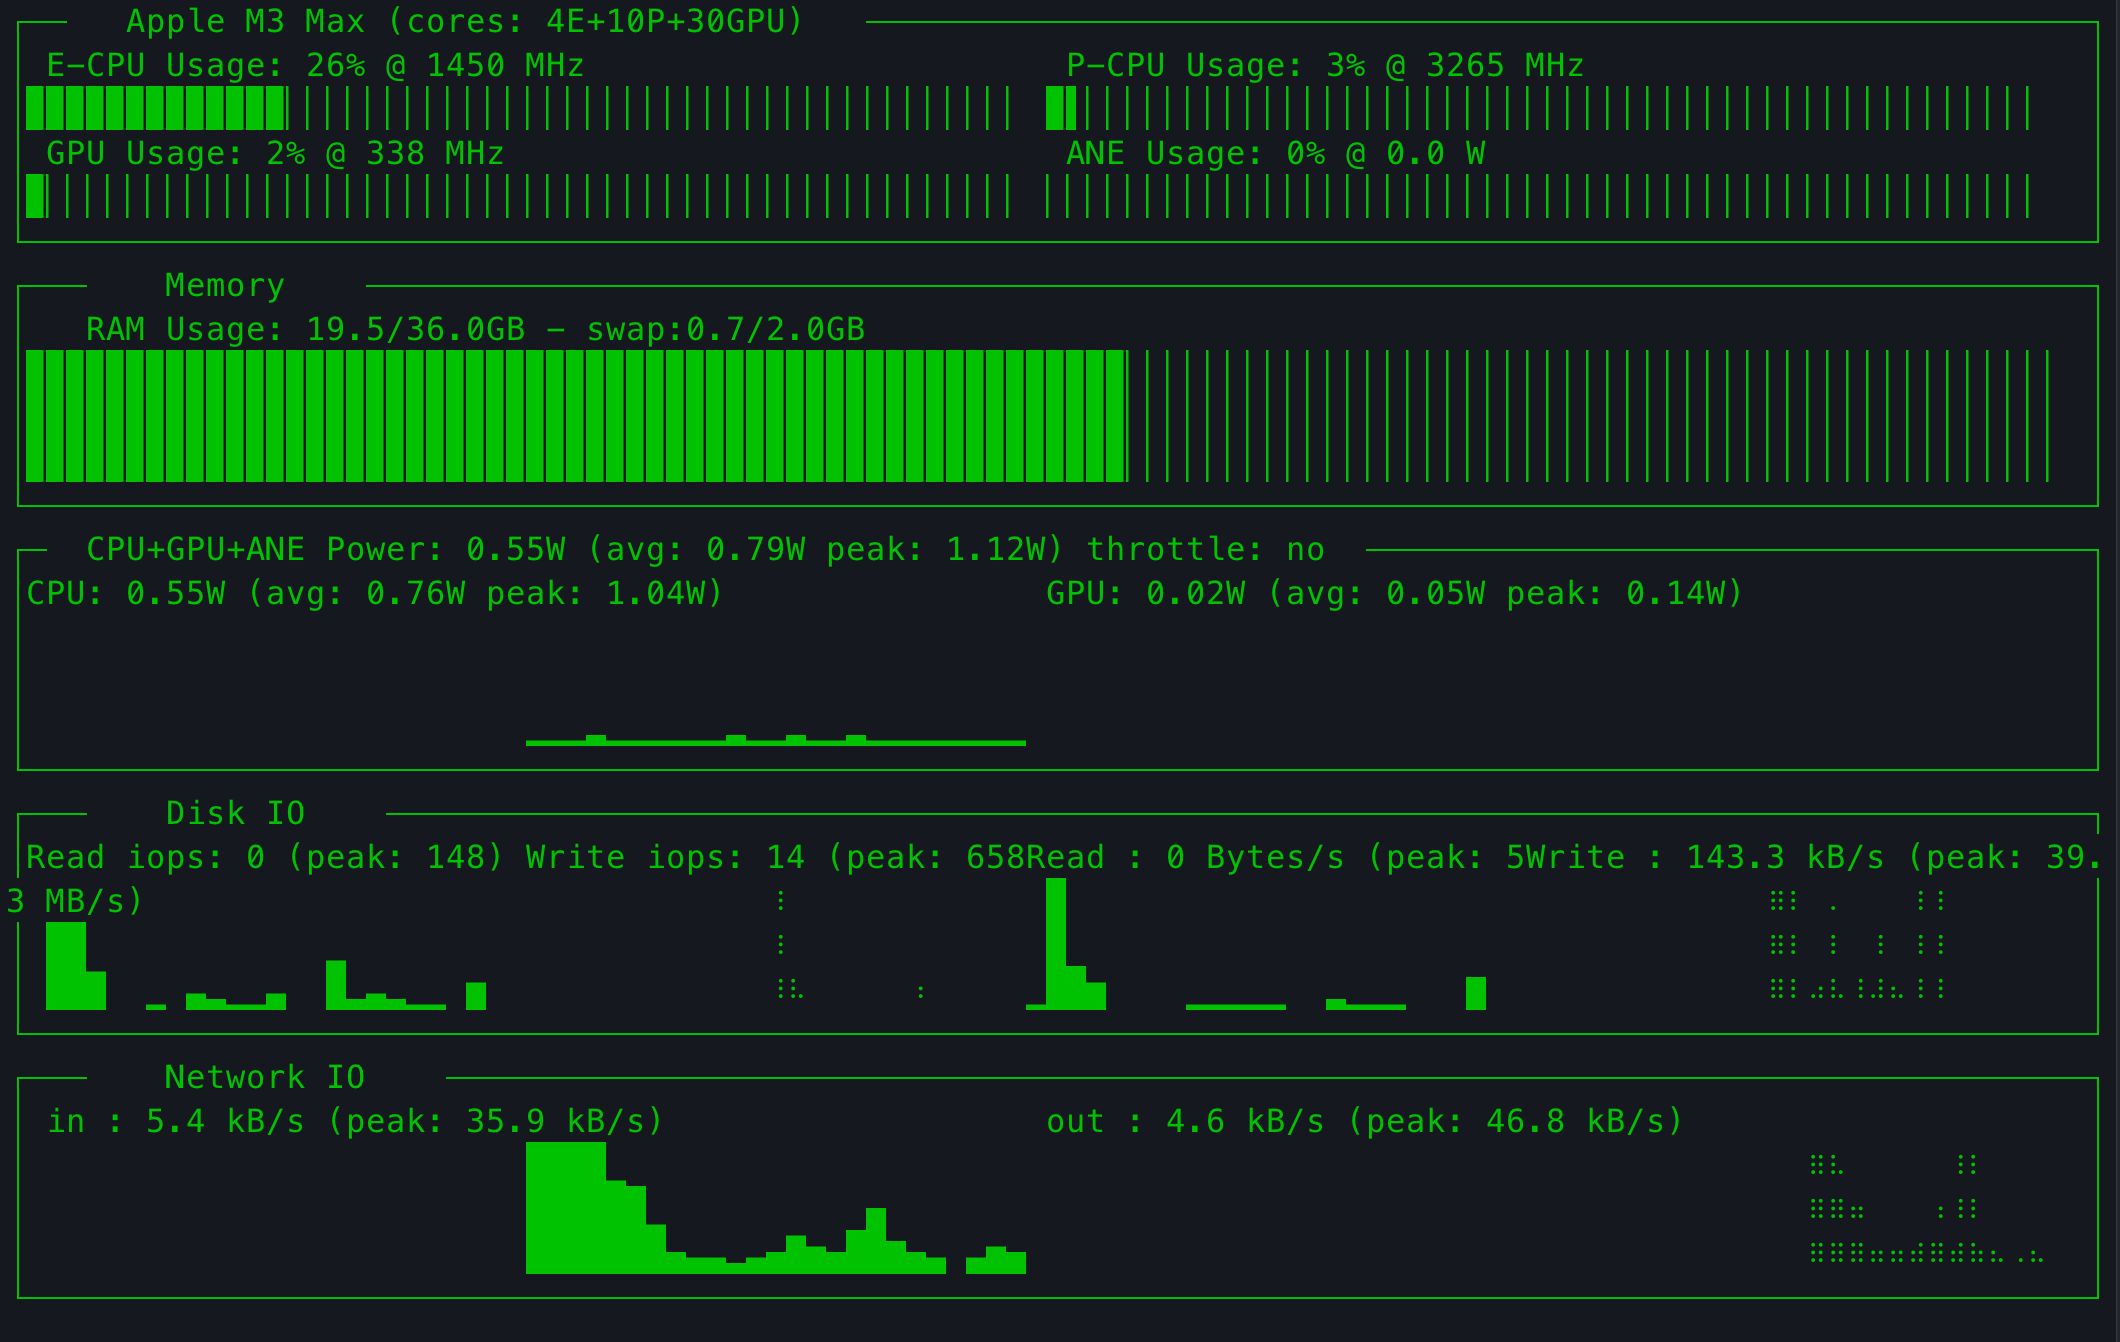
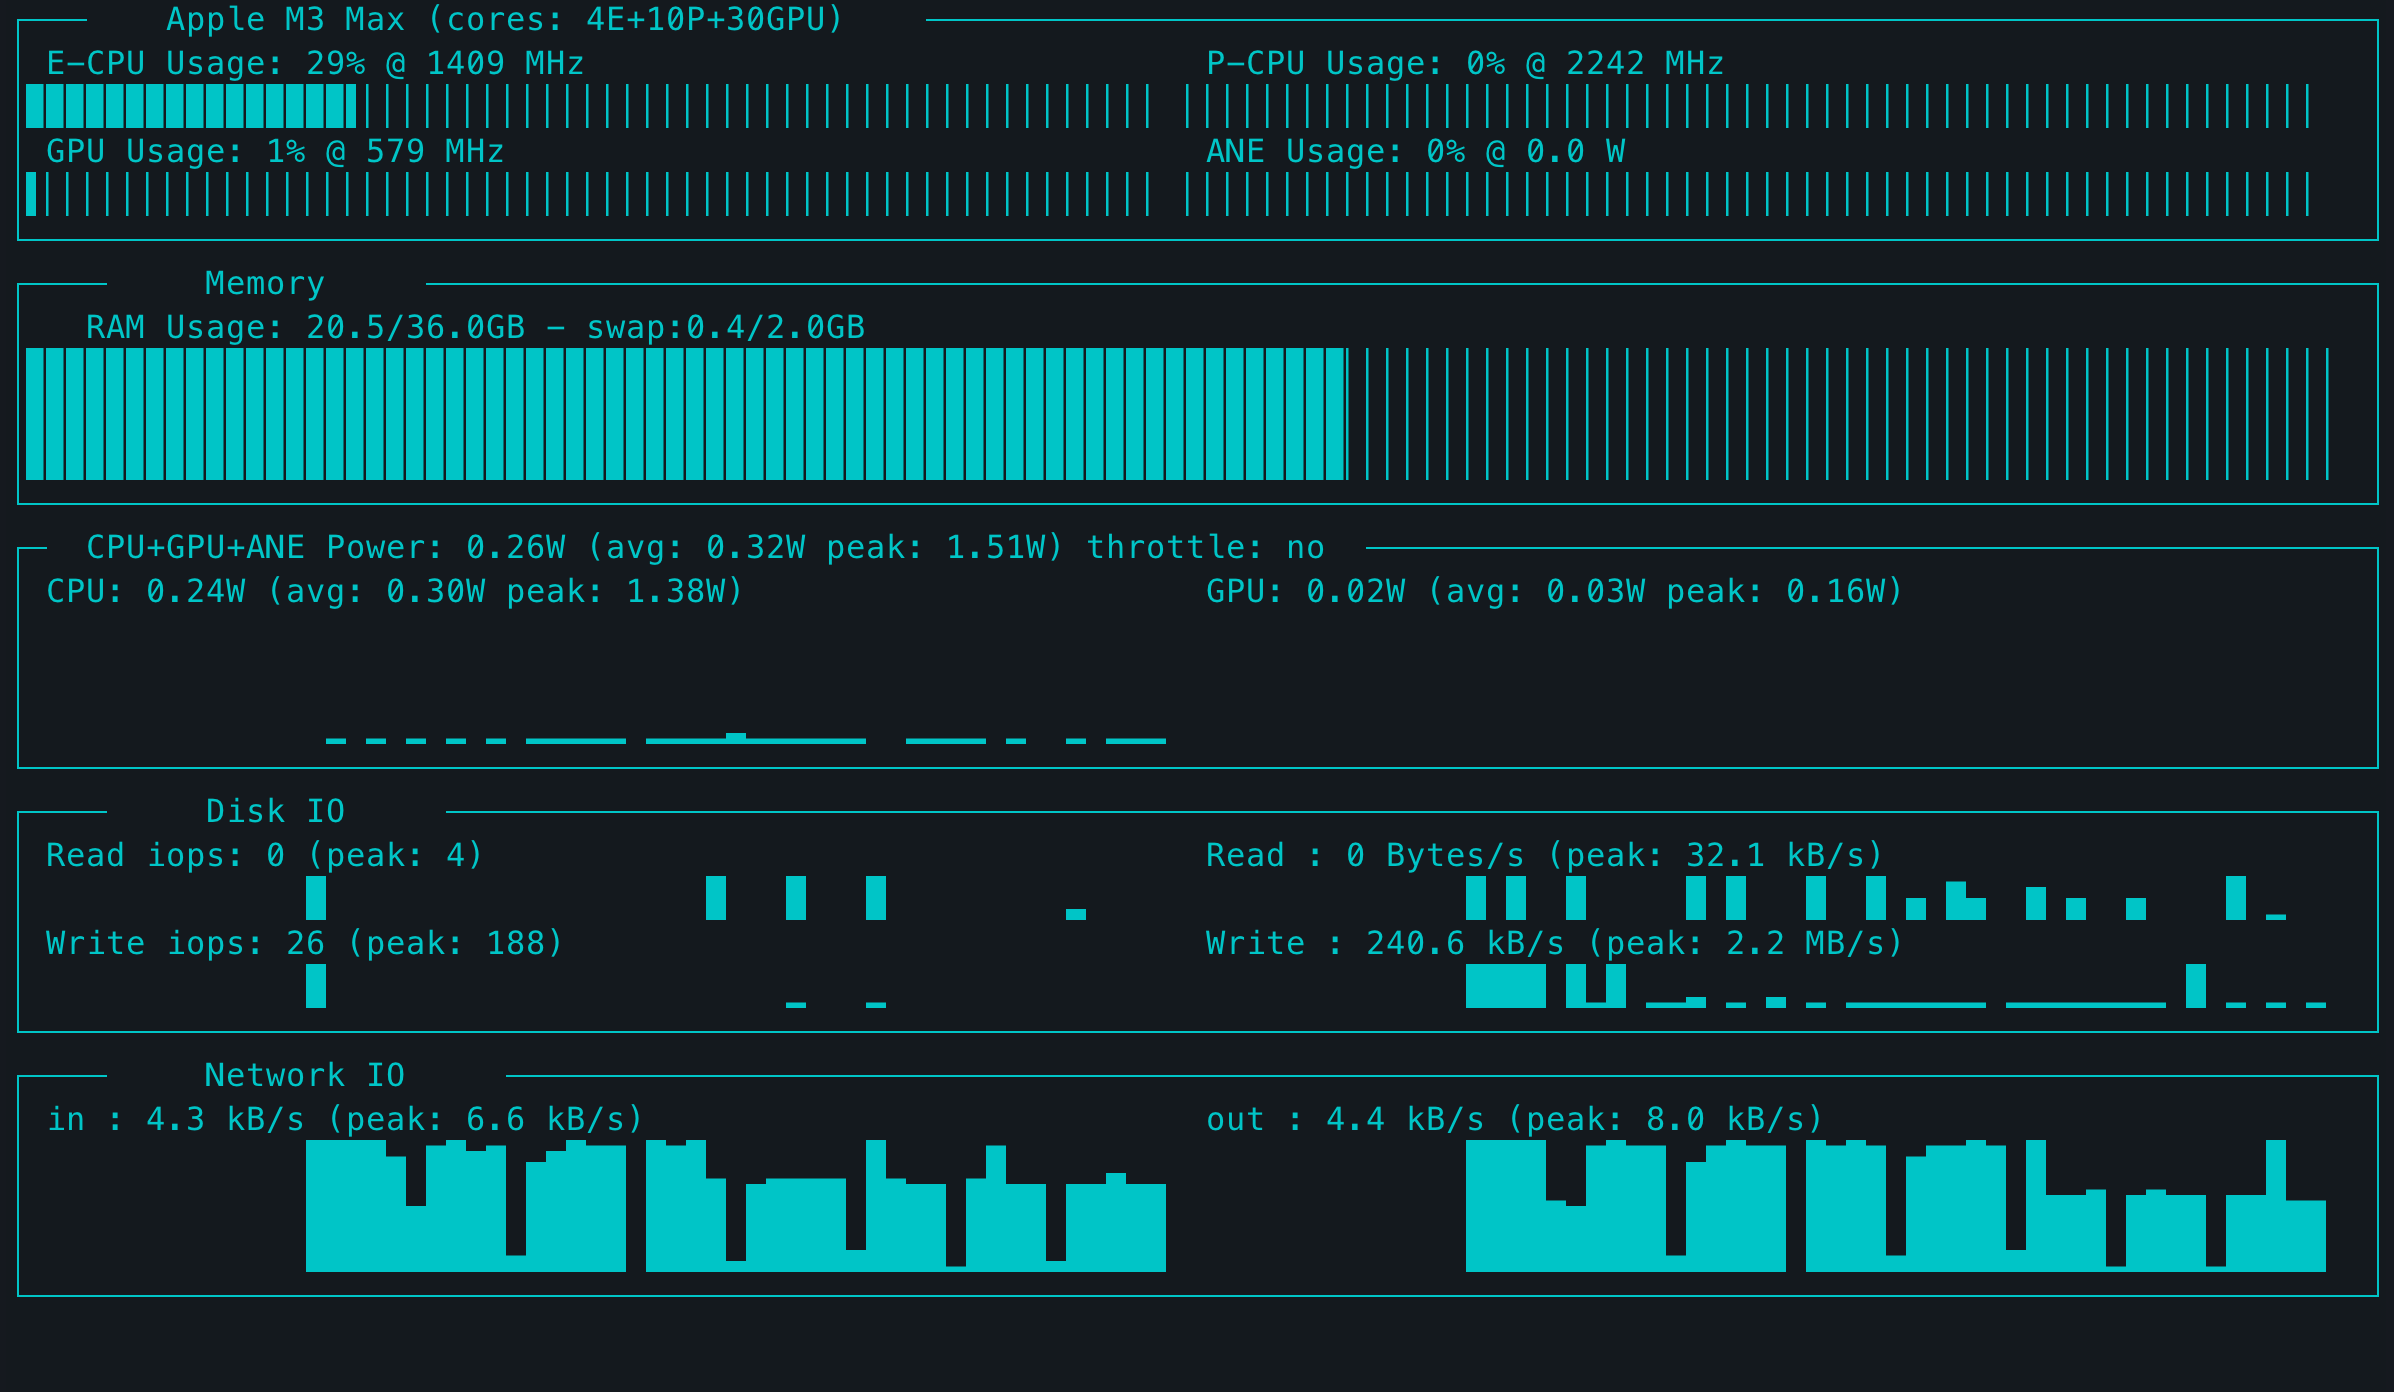
correct the cpu usage in show-cpu mode

Changed region(s): [[0.0, 0.0, 1.0, 1.0]]

diff --git a/macpm/macpm.py b/macpm/macpm.py
@@ -9,7 +9,7 @@ import psutil
 import plistlib
 import curses
 
-version = 'macpm v0.2'
+version = 'macpm v0.21'
 parser = argparse.ArgumentParser(
     description=f'{version}: Performance monitoring CLI tool for Apple Silicon')
 parser.add_argument('--interval', type=int, default=1,
@@ -253,12 +253,13 @@ def parse_cpu_metrics(powermetrics_parse):
             core = e_core if name[0] == 'E' else p_core
             core.append(cpu["cpu"])
             cpu_metric_dict[name + str(cpu["cpu"]) + "_freq_Mhz"] = int(cpu["freq_hz"] / (1e6))
-            cpu_metric_dict[name + str(cpu["cpu"]) + "_active"] = int((1 - cpu["idle_ratio"]) * 100)
+            idle_ratio = cluster["down_ratio"] + (1 - cluster["down_ratio"]) * (cpu["idle_ratio"] + cpu["down_ratio"])
+            cpu_metric_dict[name + str(cpu["cpu"]) + "_active"] = int((1 - idle_ratio) * 100)           
             if name[0] == 'E':
-                e_total_idle_ratio += cluster["down_ratio"] + (1 - cluster["down_ratio"]) * (cpu["idle_ratio"] + cpu["down_ratio"])
+                e_total_idle_ratio += idle_ratio
                 e_core_count += 1
             else:
-                p_total_idle_ratio += cluster["down_ratio"] + (1 - cluster["down_ratio"]) * (cpu["idle_ratio"] + cpu["down_ratio"])
+                p_total_idle_ratio += idle_ratio
                 p_core_count += 1
     
     cpu_metric_dict["E-Cluster_active"] = int((1 - e_total_idle_ratio/e_core_count)*100)
@@ -340,6 +341,7 @@ class DefaultView():
         self.disk_write_bps_peak = 0
         self.network_in_bps_peak = 0
         self.network_out_bps_peak = 0
+        self.default_cpu_perline = 8
         self.construct(soc_info_dict,args)
         
     def construct(self,soc_info_dict,args):
@@ -351,15 +353,34 @@ class DefaultView():
         self.e_core_count = soc_info_dict["e_core_count"]
         self.e_core_gauges = [VGauge(val=0, color=args.color, border_color=args.color) for _ in range(self.e_core_count)]
         self.p_core_count = soc_info_dict["p_core_count"]
-        self.p_core_gauges = [VGauge(val=0, color=args.color, border_color=args.color) for _ in range(min(self.p_core_count, 8))]
-        self.p_core_split = [HSplit(
-            *self.p_core_gauges,
-        )]
-        if self.p_core_count > 8:
-            self.p_core_gauges_ext = [VGauge(val=0, color=args.color, border_color=args.color) for _ in range(self.p_core_count - 8)]
+        self.max_cpu_perline = self.default_cpu_perline
+        for i in range(int(self.default_cpu_perline/2),self.default_cpu_perline):
+            if self.p_core_count % i == 0:
+                self.max_cpu_perline = i
+                break
+        import math
+        p_core_lines = math.ceil(self.p_core_count / self.max_cpu_perline)
+        self.p_core_gauges = []
+        self.p_core_split = []
+        for i in range(p_core_lines):
+            self.p_core_gauges.append([])
+            self.p_core_gauges[i].extend([VGauge(val=0, color=args.color, border_color=args.color) for _ in range(self.max_cpu_perline if i < p_core_lines - 1 else self.p_core_count - i * self.max_cpu_perline)])
             self.p_core_split.append(HSplit(
-                *self.p_core_gauges_ext,
+                *self.p_core_gauges[i],
             ))
+        if args.show_cores:
+            self.processor_gauges = [self.cpu1_gauge,
+                            HSplit(*self.e_core_gauges),
+                            self.cpu2_gauge,]
+            #for i in range(len(self.p_core_split)):
+            self.processor_gauges.extend(self.p_core_split)
+            self.processor_gauges.extend(self.gpu_ane_gauges)
+        else:
+            self.processor_gauges = [
+                HSplit(self.cpu1_gauge, self.cpu2_gauge),
+                HSplit(*self.gpu_ane_gauges)
+            ]
+        """
         self.processor_gauges = [self.cpu1_gauge,
                             HSplit(*self.e_core_gauges),
                             self.cpu2_gauge,
@@ -369,6 +390,7 @@ class DefaultView():
             HSplit(self.cpu1_gauge, self.cpu2_gauge),
             HSplit(*self.gpu_ane_gauges)
         ]
+        """
         self.processor_split = VSplit(
             *self.processor_gauges,
             title="Processor Utilization",
@@ -515,12 +537,14 @@ class DefaultView():
                 self.e_core_gauges[i].color = args.color
                 self.e_core_gauges[i].border_color = args.color
             for i in range(len(self.p_core_gauges)):
-                self.p_core_gauges[i].color = args.color
-                self.p_core_gauges[i].border_color = args.color
+                for j in range(len(self.p_core_gauges[i])):
+                    self.p_core_gauges[i][j].color = args.color
+                    self.p_core_gauges[i][j].border_color = args.color
+            """
             for i in range(len(self.p_core_gauges_ext)):
                 self.p_core_gauges_ext[i].color = args.color
                 self.p_core_gauges_ext[i].border_color = args.color
-        
+            """
         thermal_pressure = parse_thermal_pressure(powermetrics_parse)
         cpu_metrics_dict = parse_cpu_metrics(powermetrics_parse)
         gpu_metrics_dict = parse_gpu_metrics(powermetrics_parse)
@@ -577,13 +601,14 @@ class DefaultView():
                     core_count += 1
                 core_count = 0
                 for i in cpu_metrics_dict["p_core"]:
-                    core_gauges =self.p_core_gauges if core_count < 8 else self.p_core_gauges_ext
-                    core_gauges[core_count % 8].title = "".join([
+                    #core_gauges =self.p_core_gauges if core_count < 8 else self.p_core_gauges_ext
+                    core_gauges = self.p_core_gauges[int(core_count / self.max_cpu_perline)]
+                    core_gauges[core_count % self.max_cpu_perline].title = "".join([
                         ("Core-" if self.p_core_count < 6 else 'C-') + str(i + 1) + " ",
                         str(cpu_metrics_dict["P-Cluster" + str(i) + "_active"]),
                         "%",
                     ])
-                    core_gauges[core_count % 8].value = cpu_metrics_dict["P-Cluster" + str(i) + "_active"]
+                    core_gauges[core_count % self.max_cpu_perline].value = cpu_metrics_dict["P-Cluster" + str(i) + "_active"]
                     core_count += 1
 
             self.gpu_gauge.title = "".join([

diff --git a/setup.py b/setup.py
@@ -4,7 +4,7 @@ long_description = 'Performance monitoring CLI tool for Apple Silicon'
 
 setup(
     name='macpm',
-    version='0.2',
+    version='0.21',
     author='Jinyu Chen',
     author_email='visualcjy@mail.com',
     url='https://github.com/visualcjy/macpm',
